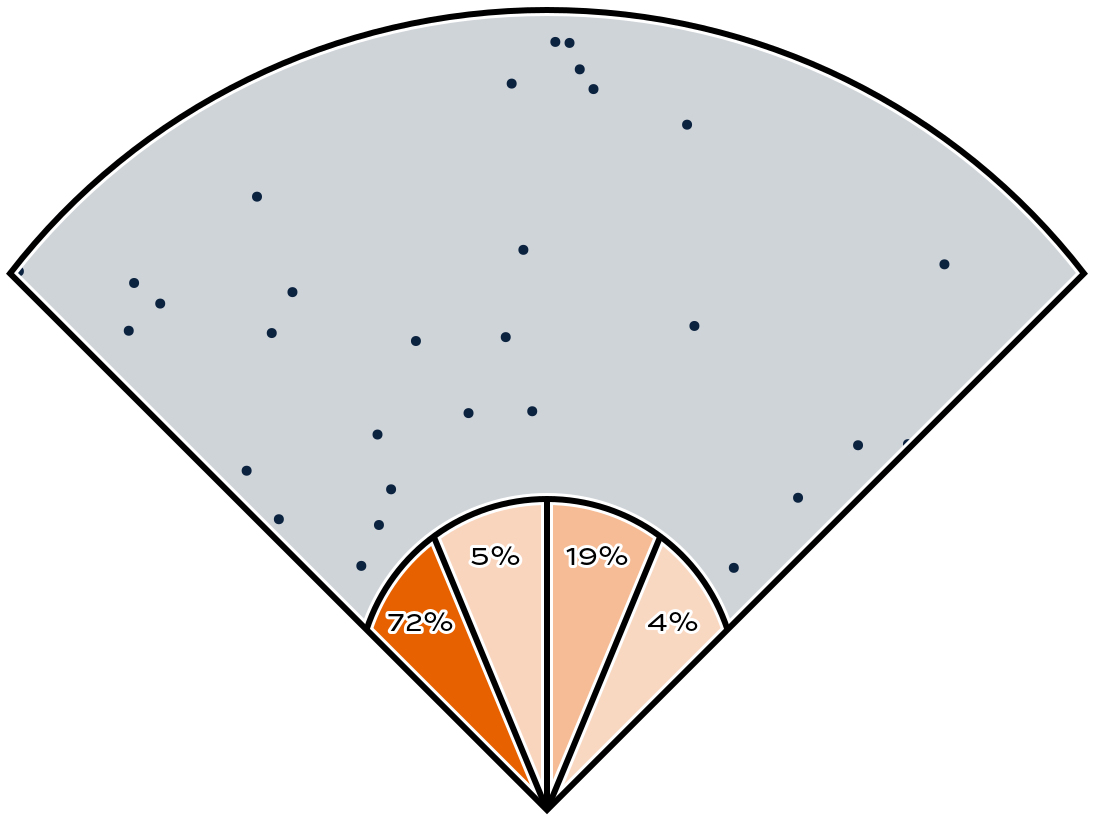
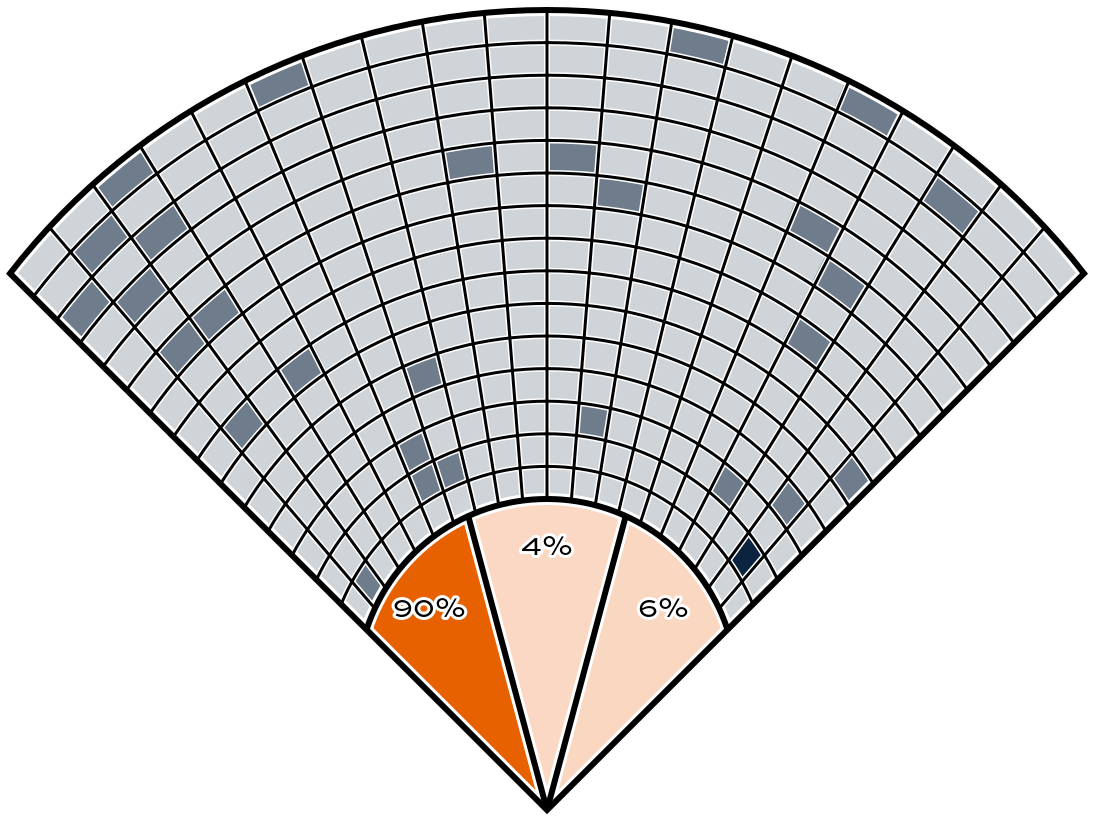
Pushing work on heatmap from last week. Delayed to fix and tweak a few kinks, but the new and improved heatmap is now completely done.

Changed region(s): [[0.0311, 0.0305, 0.9634, 0.9756]]

diff --git a/Visualization/VisualUtil.py b/Visualization/VisualUtil.py
@@ -18,8 +18,10 @@ TRANSPARENT  = (0.00, 0.00, 0.00, 0.00) # Transparent
 DISTANCE_TO_PLATE_  =  60.5
 DISTANCE_TO_GRASS_  =  95.0
 DISTANCE_TO_FENCE_  = 339.5
-image_scale_factor =   2
-cushion            =  10   # Extra space around the field to allow for thicker lines / outlines. Uniform on all sides.
+image_scale_factor  =   2
+cushion             =  10   # Extra space around the field to allow for thicker lines / outlines. Uniform on all sides.
+outline_thickness   =  12
+line_thickness      =   6
 
 config = configparser.ConfigParser()
 config.read('Data//config.ini')
@@ -30,6 +32,10 @@ def visualizeData(infieldStats, outfieldStats, filename):
     infield_slices  = infieldStats.__len__()
     outfield_slices = outfieldStats.__len__()
 
+    # Tweakable params for the heatmap
+    heatmap_horz_density = int(config['VISUAL']['HorizontalDensity'])
+    heatmap_vert_density = int(config['VISUAL']['VerticalDensity'])
+
     # Create the field image
     surface = cairo.ImageSurface(cairo.FORMAT_ARGB32, FIELD_WIDTH, FIELD_HEIGHT)
     draw = cairo.Context(surface)
@@ -37,13 +43,18 @@ def visualizeData(infieldStats, outfieldStats, filename):
     # Draw the slices & layer field lines on top
     if(config['VISUAL']['RenderOutfield']=='True'):
         if(config['VISUAL']['Heatmap']=='True'):
-            doHeatmap(draw, outfieldStats, NAVY_LIGHT, NAVY_DARK)
+            fillHeatmap(draw, convertToMoundSpace(outfieldStats, heatmap_vert_density, heatmap_horz_density), NAVY_LIGHT, NAVY_DARK)
             fillSlices(draw, infield_slices,  infieldStats,  DISTANCE_TO_GRASS, INFIELD_ARC,  ORANGE_LIGHT, ORANGE_DARK)
-            drawField(draw, infield_slices, 0)
+            #debugPlot(draw, outfieldStats, WHITE)
+            drawHeatmapLattice(draw, heatmap_vert_density, heatmap_horz_density, outline_thickness/2, WHITE)
+            drawField(draw, infield_slices, 0, outline_thickness, WHITE)
+            drawHeatmapLattice(draw, heatmap_vert_density, heatmap_horz_density, line_thickness/2, BLACK)
+            drawField(draw, infield_slices, 0, line_thickness, BLACK)
         else:
             fillSlices(draw, outfield_slices, outfieldStats, DISTANCE_TO_FENCE, OUTFIELD_ARC, NAVY_LIGHT,   NAVY_DARK)
             fillSlices(draw, infield_slices,  infieldStats,  DISTANCE_TO_GRASS, INFIELD_ARC,  ORANGE_LIGHT, ORANGE_DARK)
-            drawField(draw, infield_slices, outfield_slices)
+            drawField(draw, infield_slices, outfield_slices, outline_thickness, WHITE)
+            drawField(draw, infield_slices, outfield_slices, line_thickness, BLACK)
     else:
         fillSlices(draw, infield_slices,  infieldStats,  DISTANCE_TO_FENCE, OUTFIELD_ARC,  ORANGE_LIGHT, ORANGE_DARK)
         drawOnlyInfield(draw, infield_slices)
@@ -84,23 +95,19 @@ def initializeFieldVariables():
     OUTFIELD_ARC = math.asin((FIELD_WIDTH - 2*cushion)/(2*DISTANCE_TO_FENCE))
     INFIELD_ARC  = math.asin((base_width)/(2*DISTANCE_TO_GRASS))
 
-def drawField(draw, infield, outfield):
-    drawFieldLines(draw, 12, WHITE)
-    drawInfieldSliceLines (draw, 12, WHITE, infield)
-    drawOutfieldSliceLines(draw, 12, WHITE, outfield)
-    drawFieldSplit(draw, 12, WHITE)
-    drawFieldSplit(draw,  6, BLACK)
-    drawFieldLines(draw,  6, BLACK)
-    drawInfieldSliceLines (draw,  6, BLACK, infield)
-    drawOutfieldSliceLines(draw,  6, BLACK, outfield)
+def drawField(draw, infield, outfield, thick, color):
+    drawFieldLines(draw, thick, color)
+    drawInfieldSliceLines (draw, thick, color, infield)
+    drawOutfieldSliceLines(draw, thick, color, outfield)
+    drawFieldSplit(draw, DISTANCE_TO_GRASS, thick, color)
 
 def drawOnlyInfield(draw, infield):
-    drawFieldLines(draw, 12, WHITE)
-    drawInfieldSliceLines (draw, 12, WHITE, infield)
-    drawOutfieldSliceLines(draw, 12, WHITE, infield)
-    drawFieldLines(draw,  6, BLACK)
-    drawInfieldSliceLines (draw,  6, BLACK, infield)
-    drawOutfieldSliceLines(draw,  6, BLACK, infield)
+    drawFieldLines(draw, outline_thickness, WHITE)
+    drawInfieldSliceLines (draw, outline_thickness, WHITE, infield)
+    drawOutfieldSliceLines(draw, outline_thickness, WHITE, infield)
+    drawFieldLines(draw,  line_thickness, BLACK)
+    drawInfieldSliceLines (draw,  line_thickness, BLACK, infield)
+    drawOutfieldSliceLines(draw,  line_thickness, BLACK, infield)
 
 def drawFieldLines(draw, thick, color):
     draw.move_to(PLATE[0], PLATE[1])
@@ -110,8 +117,8 @@ def drawFieldLines(draw, thick, color):
     draw.set_source_rgba(color[0], color[1], color[2], color[3])
     draw.stroke()
 
-def drawFieldSplit(draw, thick, color):
-    draw.arc(MOUND[0], MOUND[1], DISTANCE_TO_GRASS, -math.pi/2 - INFIELD_ARC, -math.pi/2 + INFIELD_ARC)
+def drawFieldSplit(draw, distance, thick, color):
+    draw.arc(MOUND[0], MOUND[1], distance, -math.pi/2 - getArc(distance), -math.pi/2 + getArc(distance))
     draw.set_line_width(thick)
     draw.set_source_rgba(color[0], color[1], color[2], color[3])
     draw.stroke()
@@ -163,10 +170,48 @@ def drawText(image, text, position):
     draw = ImageDraw.Draw(image)
     draw.text((position[0], position[1]), text, font=useFont, fill=color10to255(BLACK), align="center", anchor="mm", stroke_width=3, stroke_fill=color10to255(WHITE))
 
-def doHeatmap(draw, stats, color1, color2):
-    drawFilledSlice(draw, -math.pi/2 - OUTFIELD_ARC, -math.pi/2 + OUTFIELD_ARC, color1, DISTANCE_TO_FENCE)
+def drawHeatmapLattice(draw, vert_density, horz_density, thick, color):
+    # Decide density of heatmap (goes from 150 to 400, so test value = 50 so each section is 50 feet)
+    drawVertLattice(draw, vert_density, thick, color)
+    drawHorzLattice(draw, horz_density, thick, color)
+    #drawFilledSlice(draw, -math.pi/2 - OUTFIELD_ARC, -math.pi/2 + OUTFIELD_ARC, color1, DISTANCE_TO_FENCE)
+        
+def drawVertLattice(draw, density, thick, color):
+    start = DISTANCE_TO_GRASS
+    end = DISTANCE_TO_FENCE
+    diff = (end - start) / density
+    start += diff
+    while(start < end):
+        drawFieldSplit(draw, start, thick, color)
+        start += diff
+
+def drawHorzLattice(draw, density, thick, color):
+    start = 0
+    end = 90
+    diff = (end - start) / density
+    start += diff
+    while(start < end):
+        intersectionAtGrass = getIntersection((MOUND[0], MOUND[1], DISTANCE_TO_GRASS), (PLATE[0], PLATE[1]), math.radians(-135 + start))
+        intersectionAtFence = getIntersection((MOUND[0], MOUND[1], DISTANCE_TO_FENCE), (PLATE[0], PLATE[1]), math.radians(-135 + start))
+        drawSliceLine(draw, intersectionAtGrass, intersectionAtFence, thick, color)
+        start += diff
+
+def fillHeatmap(draw, heatmap, color1, color2):
+    # Draw slices from back to front, left to right. This will layer properly.
+    max = np.max(heatmap)
+    for i in range(0, heatmap.__len__()):
+        distance   = DISTANCE_TO_FENCE - ((i) * (DISTANCE_TO_FENCE - DISTANCE_TO_GRASS)/heatmap.__len__())
+        minAngle = -math.pi/2 - getArc(distance)
+        maxAngle = -math.pi/2 + getArc(distance)
+        diff = maxAngle - minAngle
+        for j in range(0, heatmap[0].__len__()):
+            sliceStart = minAngle + ( j    * (diff / heatmap[0].__len__()))
+            sliceEnd   = minAngle + ((j+1) * (diff / heatmap[0].__len__()))
+            drawFilledSlice(draw, sliceStart, sliceEnd, blendColors(color1, color2, heatmap[heatmap.__len__() - (i+1)][j]/max), distance)
+
+def debugPlot(draw, stats, color):
     for i in range(0, stats.__len__()):
-        drawPoint(draw, stats[i][0], stats[i][1], color2)
+        drawPoint(draw, stats[i][0], stats[i][1], color)
 
 def drawPoint(draw, bearing, distance, color):
     pos = getIntersection((PLATE[0], PLATE[1], distance*image_scale_factor), (PLATE[0], PLATE[1]), math.radians(-90 + bearing))
@@ -191,6 +236,17 @@ def cleanNumber(num):
     clean = int(round(num*100))
     return str(clean) + "%"
 
+def convertToMoundSpace(stats, vert_density, horz_density):
+    # Solve for which horizontal slice the point is in (angle)
+    # stats[0] = angle from -45 to 45
+    # stats[1] = distance from 150 to 400
+    heatmap = np.zeros((vert_density, horz_density))
+    for stat in stats:
+        horz = math.floor((stat[0] + 45)/(90 / horz_density))
+        vert = math.floor((stat[1] - 150)/(250 / vert_density))
+        heatmap[vert][horz] += 1
+    return heatmap
+
 # Circle = (x, y, r)
 def getIntersection(circle, line_start, angle):
     x = line_start[0] - circle[0]
@@ -210,6 +266,16 @@ def getIntersection(circle, line_start, angle):
     intersection = (circle[0] + intersection[0], circle[1] + intersection[1])
     #print('X intersection: ' + str(intersection[0]) + '\nY intersection: ' + str(intersection[1]))
     return intersection
+
+def getArc(radius):
+    a = quadratic(2, -2*DISTANCE_TO_PLATE, DISTANCE_TO_PLATE**2 - radius**2)
+    a = math.sqrt(2*a**2) # Gets magnitude of a, which before is just the x or y coordinate (x=y, so mag = sqrt(2x^2))
+    b = a * math.sqrt(2)
+    result = math.asin(b/(2*radius)) # This is half the angle made by the mound triangle, using half so we can center around -pi/2
+    return result
+
+def quadratic(a, b, c):
+    return (-b + math.sqrt(b**2 - 4*a*c)) / (2*a)
 
 def flip_y(coords):
     if(coords.__len__() == 2):
